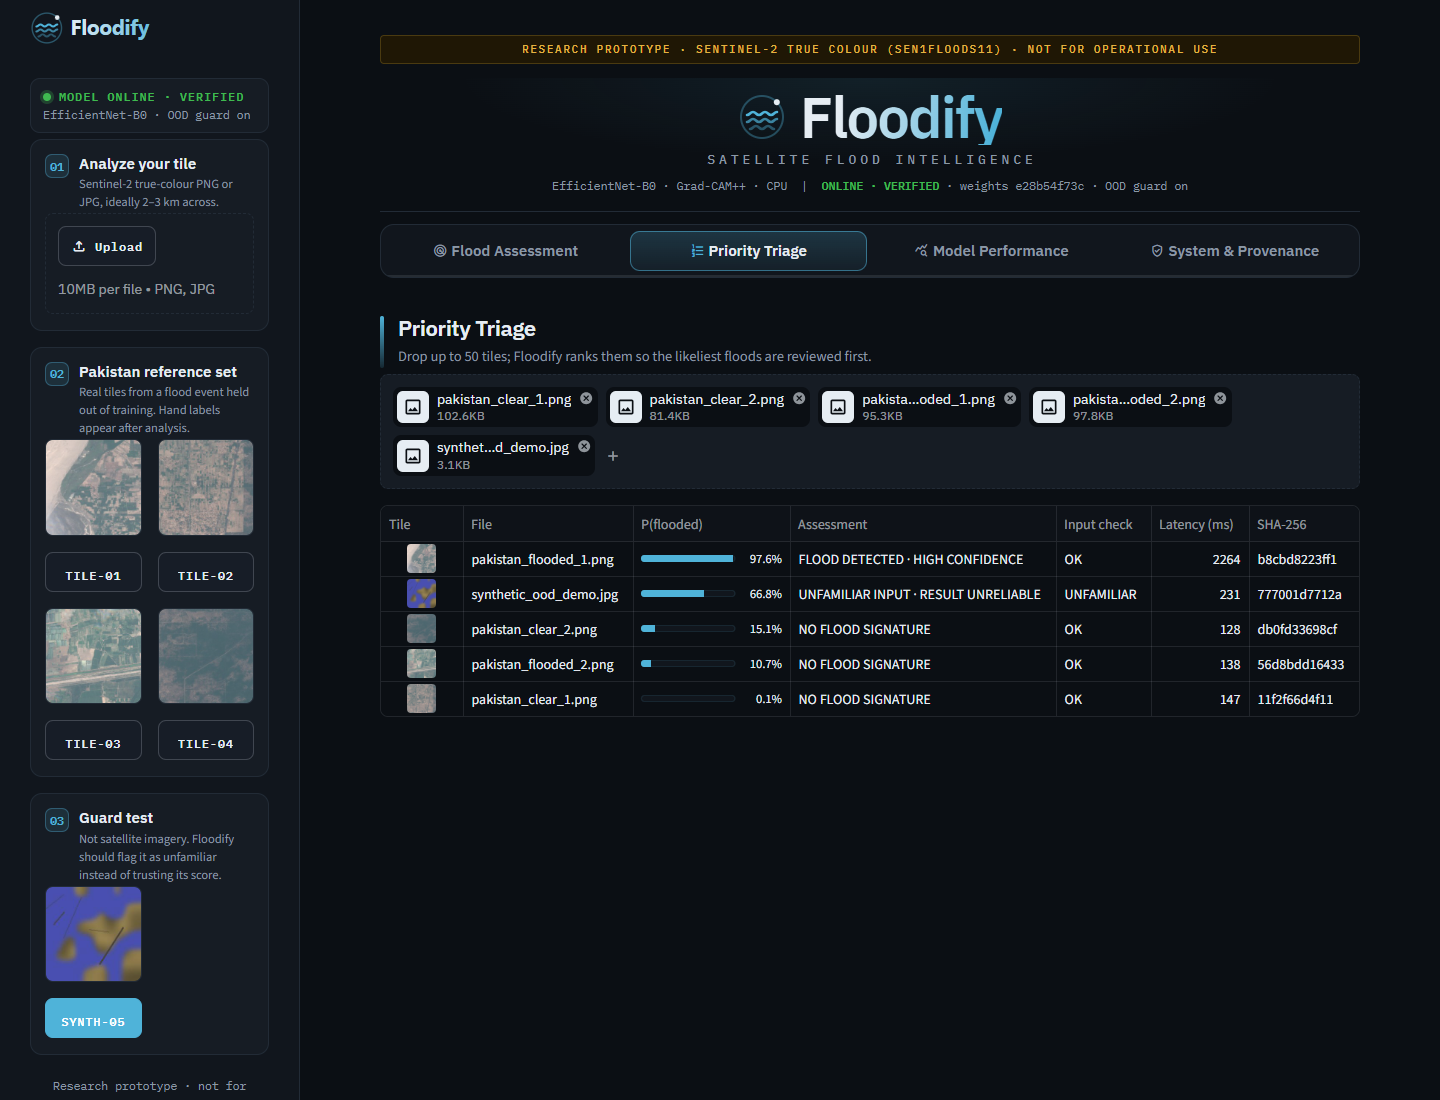
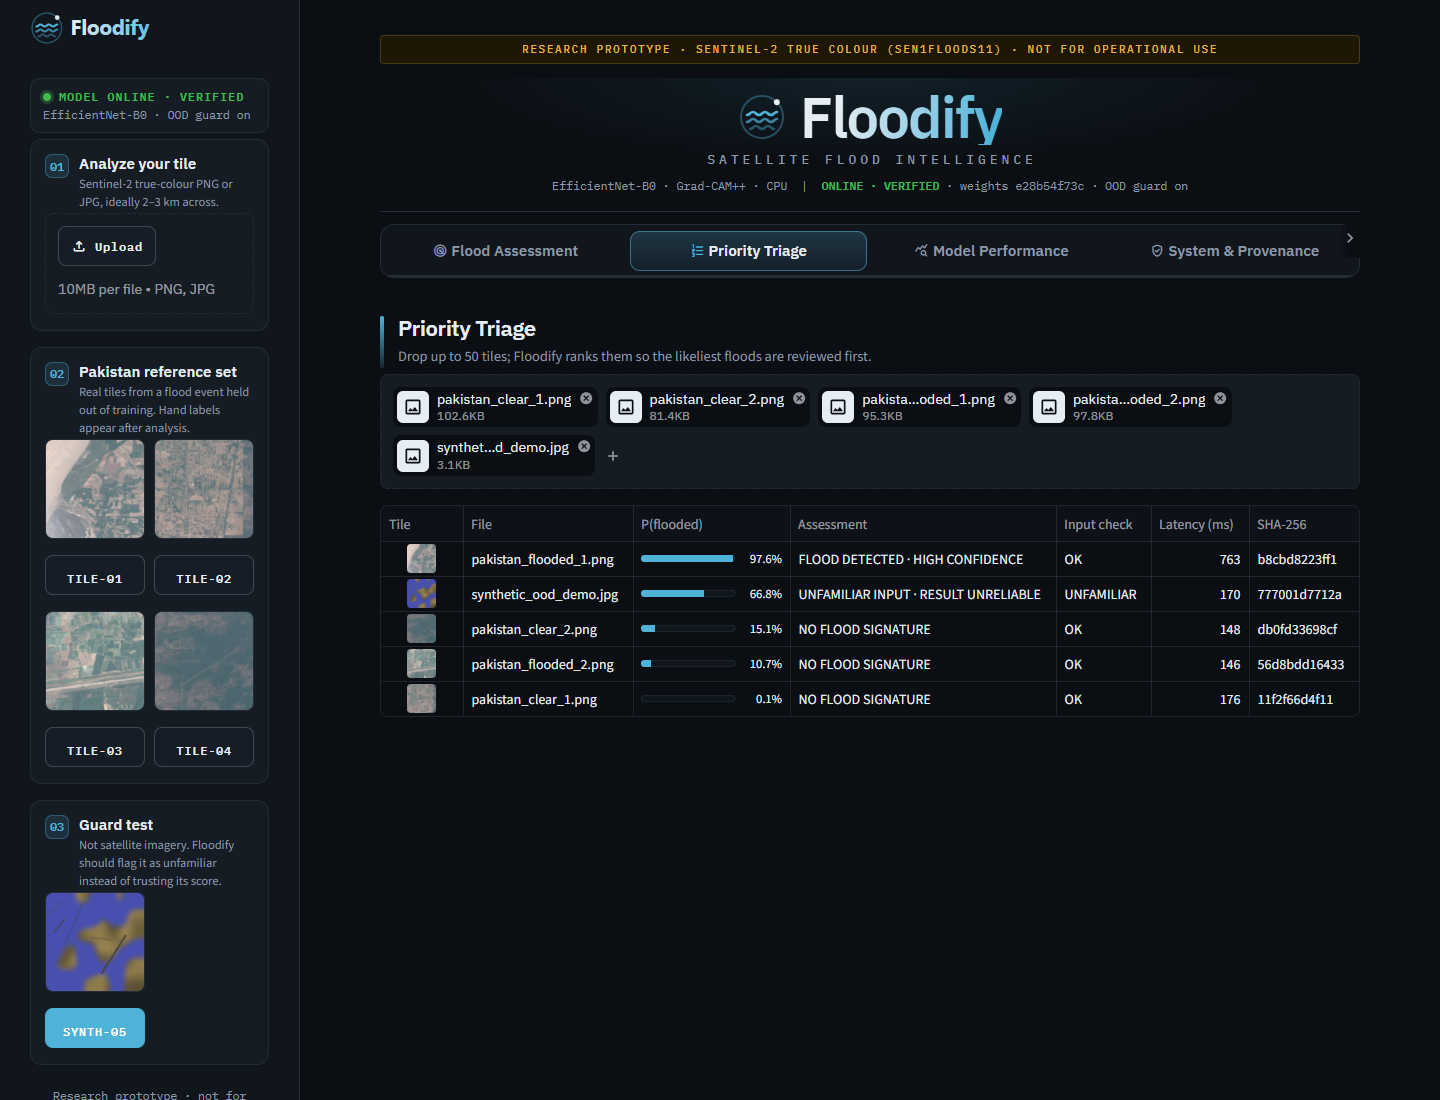
First-visit result and mobile layout
- Load reference TILE-01 on first visit so the page opens on a real result
- Sidebar starts collapsed on phones (initial_sidebar_state="auto")
- Phone CSS: 2x2 tab grid, single-column KPIs, compact header, clearance
  for the collapsed logo; sidebar keeps its 2-up tile grid
- Screenshots recaptured

Changed region(s): [[0.0312, 0.4018, 0.1875, 1.0]]

diff --git a/app.py b/app.py
@@ -112,7 +112,7 @@ st.set_page_config(
     page_title="Floodify · Satellite Flood Intelligence",
     page_icon=":material/satellite_alt:",
     layout="wide",
-    initial_sidebar_state="expanded",
+    initial_sidebar_state="auto",  # open on desktop, closed on phones so content is visible first
 )
 
 
@@ -194,6 +194,22 @@ color:var(--accent);background:rgba(79,179,217,.12);border:1px solid rgba(79,179
 [data-testid="stSidebar"] button p{font:600 .78rem var(--mono);letter-spacing:.04em}
 .sb-foot{font:.72rem/1.6 var(--mono);color:var(--muted);text-align:center;padding:6px 0 10px}
 .sb-foot a{color:var(--accent);text-decoration:none}
+/* Keep the sidebar's 2-up tile grid on narrow screens (Streamlit stacks columns below 640px). */
+[data-testid="stSidebar"] [data-testid="stHorizontalBlock"]{flex-wrap:nowrap;gap:.6rem}
+[data-testid="stSidebar"] [data-testid="stColumn"]{min-width:0 !important;flex:1 1 0 !important;width:auto !important}
+/* Phones */
+@media (max-width:640px){
+.stApp .block-container{padding-left:1rem;padding-right:1rem;padding-top:3.6rem}
+.poc-banner{font-size:.6rem;letter-spacing:.08em;padding:6px 8px}
+.app-header{padding:4px 0 12px}
+.app-tagline{font-size:.62rem;letter-spacing:.22em}
+.app-meta{font-size:.62rem;line-height:1.6}
+[data-testid="stTabs"] [role="tablist"]{display:grid;grid-template-columns:1fr 1fr;overflow:visible}
+[data-testid="stTab"]{min-width:0;padding:10px 8px}
+[data-testid="stTab"] p{font-size:.8rem;white-space:normal;text-align:center;line-height:1.2}
+.stApp .kpi-row,.stApp .kpi-row.kpi-4{grid-template-columns:1fr}
+.page-title{font-size:1.15rem}
+}
 .kpi-row{display:grid;grid-template-columns:2.2fr repeat(4,1fr);gap:1px;background:var(--border);
 border:1px solid var(--border);border-radius:6px;overflow:hidden;margin:16px 0 10px}
 .kpi-row.kpi-4{grid-template-columns:repeat(4,1fr)}
@@ -402,6 +418,13 @@ def select_input(loaded: LoadedCheckpoint | None) -> dict | None:
         or None), or None if nothing is selected.
     """
     enabled = loaded is not None
+    if enabled and "active" not in st.session_state:
+        # First visit: show a real result immediately instead of an empty page.
+        first = next(t for t in SAMPLE_TILES if t["truth"] is not None and t["path"].exists())
+        st.session_state.active = {
+            "name": f"{first['id']} ({first['path'].name})", "bytes": first["path"].read_bytes(),
+            "source": "reference", "truth": first["truth"],
+        }
     st.logo(str(LOGO_PATH), size="large", icon_image=str(ICON_PATH), link=REPO_URL)
     with st.sidebar:
         _sidebar_status(loaded)
